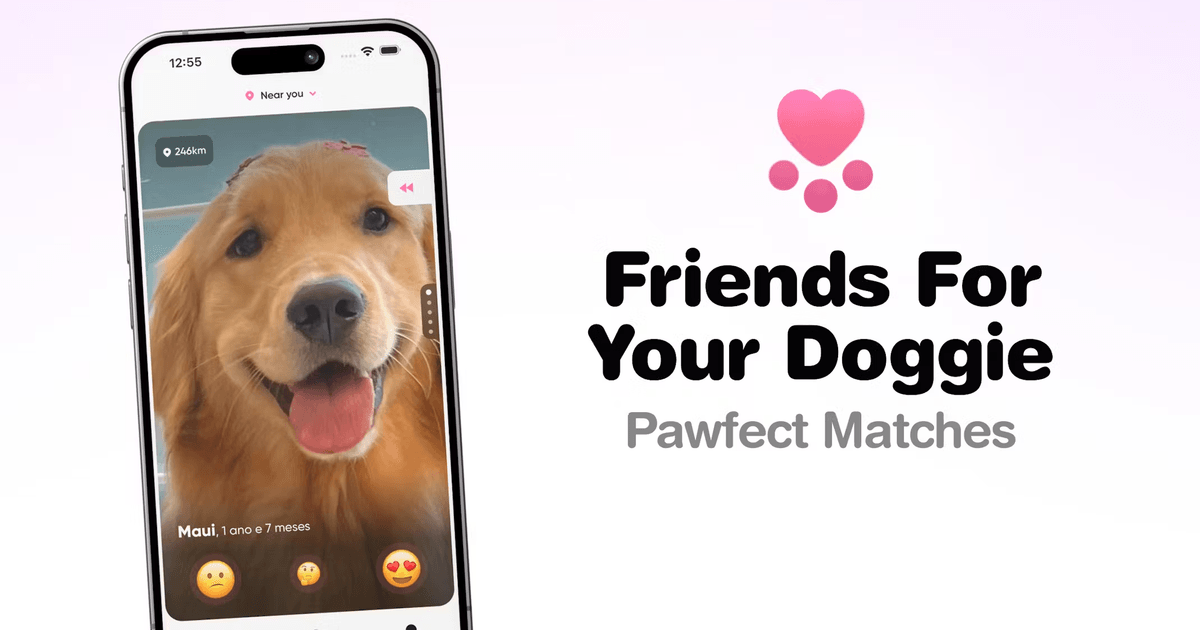
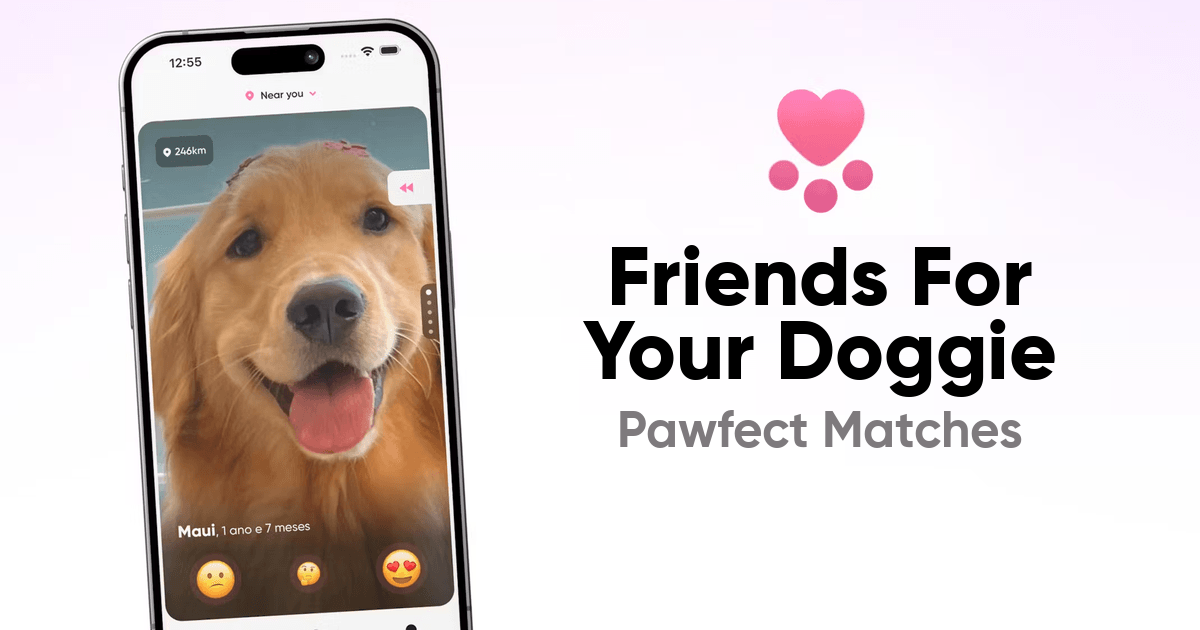
fix(web): give the home page a Portuguese link preview
* fix(web): give the home page a Portuguese link preview

* fix(web): draw both home cards from one script in Gilroy

Changed region(s): [[0.4933, 0.3921, 0.8942, 0.7238]]

diff --git a/apps/nextjs/src/app/layout.tsx b/apps/nextjs/src/app/layout.tsx
@@ -30,11 +30,22 @@ const epilogue = Epilogue({
  */
 const SITE_URL = new URL("https://www.pegada.app");
 
-const OG_IMAGE = {
-  url: "/og-image.png",
+/**
+ * The headline is baked into the card, so an English one under `/pt-br` shows
+ * a Portuguese page behind an English preview every time the link is pasted
+ * into WhatsApp. One file per locale, same as the story page's card.
+ */
+const OG_IMAGE_BY_LOCALE: Record<string, string> = {
+  "pt-br": "/og-image-pt-br.png",
+};
+
+const OG_IMAGE_FALLBACK = "/og-image.png";
+
+const ogImage = (locale: string) => ({
+  url: OG_IMAGE_BY_LOCALE[locale] ?? OG_IMAGE_FALLBACK,
   width: 1200,
   height: 630,
-};
+});
 
 /**
  * `public/favicon.ico` is served by convention with no `<link>` at all, which
@@ -60,7 +71,7 @@ export const generateMetadata = () => {
   const routePath = toRoutePath(getRequestPathname());
 
   const canonical = toLocalePath(locale, routePath);
-  const images = [{ ...OG_IMAGE, alt: t("metadata.ogImageAlt") }];
+  const images = [{ ...ogImage(locale), alt: t("metadata.ogImageAlt") }];
 
   return {
     metadataBase: SITE_URL,

diff --git a/scripts/generate-og-cards.py b/scripts/generate-og-cards.py
@@ -1,0 +1,107 @@
+#!/usr/bin/env python3
+"""Draw the home page link preview cards, one per locale.
+
+The card is a phone shot on the left and a headline on the right. Only the
+headline changes between locales, so both files are drawn here from the same
+plate and the same measurements. That is the point of this script: the cards
+were drawn by hand once, drifted apart, and ended up in two different
+typefaces, neither of which was the one the app is set in.
+
+The plate is `og-image.png` itself. Everything outside the text band is left
+untouched, and the band is repainted from the background either side of it
+before the words go down, so running this again on its own output gives the
+same picture back.
+
+Type is Gilroy, the same files the app and the dog share card use, at the
+sizes and positions the original card used.
+
+    python3 scripts/generate-og-cards.py
+    oxipng -o 4 --strip safe apps/nextjs/public/og-image.png \
+        apps/nextjs/public/og-image-pt-br.png
+
+Adding a locale means adding a row to CARDS below and a row to the lookup in
+`apps/nextjs/src/app/layout.tsx`.
+"""
+
+from pathlib import Path
+
+from PIL import Image, ImageDraw, ImageFont
+
+ROOT = Path(__file__).resolve().parent.parent
+FONTS = ROOT / "packages" / "shared" / "themes" / "fonts"
+PUBLIC = ROOT / "apps" / "nextjs" / "public"
+PLATE = PUBLIC / "og-image.png"
+
+# The band the words sit in, and two columns of clean background either side of
+# it to repaint that band from.
+BAND = (500, 235, 1200, 466)
+SAMPLE_LEFT = 490
+SAMPLE_RIGHT = 1195
+
+CENTRE_X = 820
+HEADLINE_CAP_TOPS = (247, 321)
+SUBTITLE_CAP_TOP = 411
+HEADLINE_CAP_HEIGHT = 59
+SUBTITLE_CAP_HEIGHT = 36
+HEADLINE_COLOUR = (0, 0, 0)
+SUBTITLE_COLOUR = (126, 122, 125)
+
+CARDS = [
+    ("og-image.png", ("Friends For", "Your Doggie"), "Pawfect Matches"),
+    ("og-image-pt-br.png", ("Amigos pro", "seu dog"), "Cachorro aqui do lado"),
+]
+
+
+def font_at_cap_height(name, cap_height):
+    """Gilroy's point size for a given cap height, found by bisection.
+
+    Sizing on cap height rather than points is what keeps the two cards
+    matching the original hand drawn one.
+    """
+    path = str(FONTS / name)
+    low, high = 20.0, 200.0
+    for _ in range(50):
+        middle = (low + high) / 2
+        box = ImageFont.truetype(path, max(1, round(middle))).getbbox("H")
+        if box[3] - box[1] < cap_height:
+            low = middle
+        else:
+            high = middle
+    return ImageFont.truetype(path, round((low + high) / 2))
+
+
+def repaint_band(image):
+    """Wipe the words, keeping the soft gradient they sat on."""
+    pixels = image.load()
+    left_x, top, right_x, bottom = BAND
+    span = (PLATE_WIDTH - 1) - SAMPLE_LEFT
+    for y in range(top, bottom):
+        left = pixels[SAMPLE_LEFT, y]
+        right = pixels[SAMPLE_RIGHT, y]
+        for x in range(left_x, right_x):
+            ratio = (x - SAMPLE_LEFT) / span
+            pixels[x, y] = tuple(
+                round(left[i] + (right[i] - left[i]) * ratio) for i in range(3)
+            )
+
+
+def centre(draw, text, font, cap_top, colour):
+    top_bearing = font.getbbox("H")[1]
+    width = draw.textlength(text, font=font)
+    draw.text((CENTRE_X - width / 2, cap_top - top_bearing), text, font=font, fill=colour)
+
+
+plate = Image.open(PLATE).convert("RGB")
+PLATE_WIDTH = plate.width
+headline_font = font_at_cap_height("Gilroy-ExtraBold.ttf", HEADLINE_CAP_HEIGHT)
+subtitle_font = font_at_cap_height("Gilroy-Bold.ttf", SUBTITLE_CAP_HEIGHT)
+
+for filename, headline_lines, subtitle in CARDS:
+    card = plate.copy()
+    repaint_band(card)
+    draw = ImageDraw.Draw(card)
+    for text, cap_top in zip(headline_lines, HEADLINE_CAP_TOPS):
+        centre(draw, text, headline_font, cap_top, HEADLINE_COLOUR)
+    centre(draw, subtitle, subtitle_font, SUBTITLE_CAP_TOP, SUBTITLE_COLOUR)
+    card.save(PUBLIC / filename, optimize=True)
+    print(f"wrote {filename} {card.width}x{card.height}")
